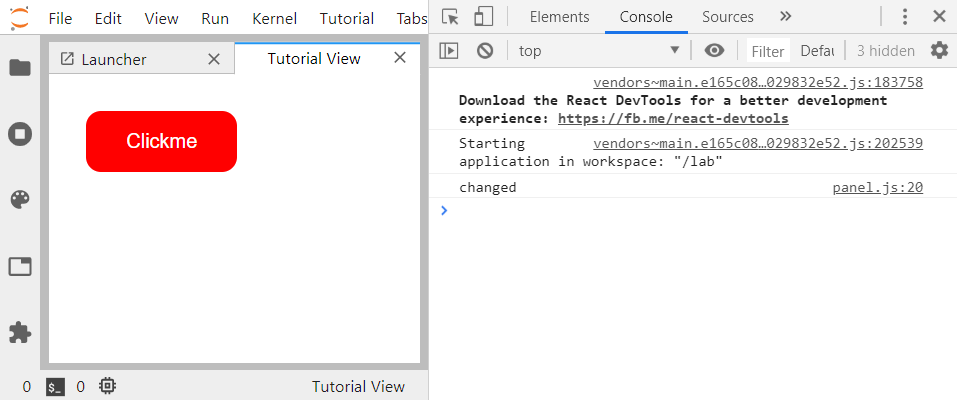
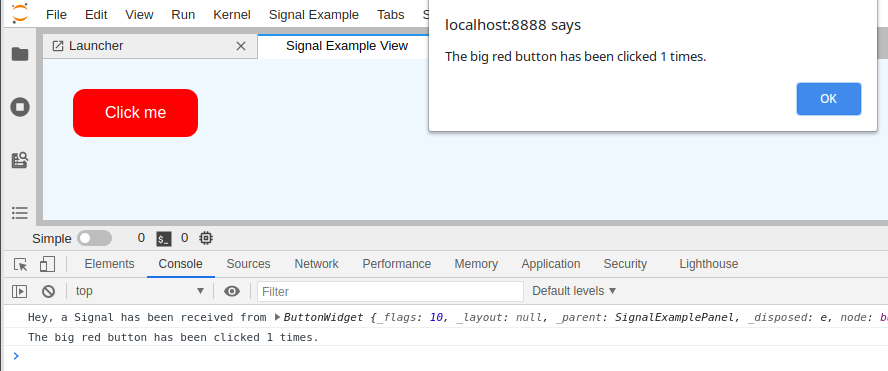
Modify signals to render an HTML button.

diff --git a/basics/signals/src/panel.ts b/basics/signals/src/panel.ts
@@ -3,24 +3,28 @@ import {
   nullTranslator,
   TranslationBundle
 } from '@jupyterlab/translation';
-import { StackedPanel } from '@lumino/widgets';
+
+import { Panel } from '@lumino/widgets';
 
 import { ButtonWidget, ICount } from './button';
-/**
- * The class name added to console panels.
- */
-const PANEL_CLASS = 'jp-tutorial-view';
+
+const PANEL_CLASS = 'jp-SignalExamplePanel';
 
 /**
- * A panel which contains a console and the ability to add other children.
+ * A panel which contains a ButtonWidget and the ability to add other children.
  */
-export class SignalExamplePanel extends StackedPanel {
+export class SignalExamplePanel extends Panel {
+  static _id = 0;
+
   constructor(translator?: ITranslator) {
     super();
     this._translator = translator || nullTranslator;
     this._trans = this._translator.load('jupyterlab');
     this.addClass(PANEL_CLASS);
-    this.id = 'SignalExamplePanel';
+
+    //  This ensures the id of the DOM node is unique for each Panel instance.
+    this.id = 'SignalExamplePanel_' + SignalExamplePanel._id++;
+
     this.title.label = this._trans.__('Signal Example View');
     this.title.closable = true;
 
@@ -40,7 +44,6 @@ export class SignalExamplePanel extends StackedPanel {
   }
 
   private _widget: ButtonWidget;
-
   private _translator: ITranslator;
   private _trans: TranslationBundle;
 }

diff --git a/basics/signals/src/button.ts b/basics/signals/src/button.ts
@@ -1,0 +1,37 @@
+import { Widget } from '@lumino/widgets';
+import { ISignal, Signal } from '@lumino/signaling';
+
+export interface ICount {
+  clickCount: number;
+}
+
+const BUTTON_WIDGET_CLASS = 'jp-ButtonWidget';
+
+export class ButtonWidget extends Widget {
+  constructor(options = { node: document.createElement('button') }) {
+    super(options);
+
+    this.node.textContent = 'Click me';
+
+    /**
+     * The class name, jp-ButtonWidget, follows the CSS class naming
+     * convention for classes that extend lumino.Widget.
+     */
+    this.addClass(BUTTON_WIDGET_CLASS);
+
+    this.node.addEventListener('click', () => {
+      this._count.clickCount = this._count.clickCount + 1;
+      this._stateChanged.emit(this._count);
+    });
+  }
+
+  private _count: ICount = {
+    clickCount: 0
+  };
+
+  private _stateChanged = new Signal<ButtonWidget, ICount>(this);
+
+  public get stateChanged(): ISignal<ButtonWidget, ICount> {
+    return this._stateChanged;
+  }
+}

diff --git a/basics/signals/style/index.css b/basics/signals/style/index.css
@@ -1,8 +1,8 @@
-.jp-tutorial-view {
+.jp-SignalExamplePanel {
   background-color: AliceBlue;
 }
 
-.jp-tutorial-button {
+.jp-ButtonWidget {
   background-color: red;
   border-radius: 12px;
   border: none;

diff --git a/basics/signals/README.md b/basics/signals/README.md
@@ -1,19 +1,18 @@
 # Signals
 
-> Use Signals to allow Widgets communicate with each others.
+> Use Signals to allow Widgets to communicate with each others.
 
 - [Lumino Signaling 101](#lumino-signaling-101)
-- [A simple React Button](#a-simple-react-button)
+- [A simple HTML Button](#a-simple-html-button)
 - [Subscribing to a Signal](#subscribing-to-a-signal)
 
 ![Button with Signal](preview.png)
 
 ## Lumino Signaling 101
 
-Communication between different components of JupyterLab is a key ingredient in building an
-extension.
+Communication between different components of JupyterLab is a key ingredient in building an extension.
 
-In this extension, a simple button will be added to print something to the console.
+In this extension, a simple HTML button will be added to print something to the console.
 
 JupyterLab's Lumino engine uses the `ISignal` interface and the
 `Signal` class that implements this interface for communication
@@ -21,30 +20,30 @@ JupyterLab's Lumino engine uses the `ISignal` interface and the
 
 The basic concept is as follows:
 
-First, a widget (`button.tsx`), in this case the one that contains
+First, a widget (`ButtonWidget` in `button.ts`), in this case the one that contains
 some visual elements such as a button, defines a `_stateChanged` signal:
 
 ```ts
-// src/button.tsx#L36-L36
+// src/button.ts#L32-L32
 
-private _stateChanged = new Signal<this, ICount>(this);
+private _stateChanged = new Signal<ButtonWidget, ICount>(this);
 ```
 
 That private signal is exposed to other widgets via a public accessor method.
 
 ```ts
-// src/button.tsx#L15-L17
+// src/button.ts#L34-L36
 
-public get stateChanged(): ISignal<this, ICount> {
+public get stateChanged(): ISignal<ButtonWidget, ICount> {
   return this._stateChanged;
 }
 ```
 
-Another widget, in this case the panel (`panel.ts`) that boxes several different widgets,
-subscribes to the `stateChanged` signal and links some function to it:
+Another widget, in this case the panel (`SignalExamplePanel` in `panel.ts`) that can box several different widgets,
+subscribes to the `stateChanged` signal and links a function to it:
 
 ```ts
-// src/panel.ts#L29-L29
+// src/panel.ts#L33-L33
 
 this._widget.stateChanged.connect(this._logMessage, this);
 ```
@@ -52,55 +51,36 @@ this._widget.stateChanged.connect(this._logMessage, this);
 The `_logMessage` is executed when the signal is triggered from the first widget with:
 
 ```ts
-// src/button.tsx#L28-L28
+// src/button.ts#L24-L24
 
 this._stateChanged.emit(this._count);
 ```
 
 Let's look at the implementations details.
 
-## A simple React Button
+## A Simple HTML Button
 
-Start with a file called `src/button.tsx`. The `tsx` extension allows to use
-HTML-like syntax with the tag notation `<>` to represent some visual elements
-(note that you have to add a line: `"jsx": "react",` to the
-`tsconfig.json` file). This is a special syntax used by [React](https://reactjs.org/tutorial/tutorial.html).
+Start with a file called `src/button.ts`.
 
-You can also try the [React Widget example](./../../react/react-widget) for more details.
+NB: For a React widget, you can try the [React Widget example](./../../react/react-widget) for more details.
 
-`button.tsx` contains one major class `ButtonWidget` that extends the
-`ReactWidget` class provided by JupyterLab.
+`button.ts` contains one class `ButtonWidget` that extends the
+`Widget` class provided by Lumino.
 
-`ReactWidget` defines a `render()` method that defines some React elements such as a button.
-This is the recommended way to include React component inside the JupyterLab widget based UI.
+The constructor argument of the `ButtonWidget` class is assigned a default `HTMLButtonElement` node (e.g., `<button></button>`). The Widget's `node` property references its respective `HTMLElement`. For example, you can set the content of the button with `this.node.textContent = 'Clickme'`.
 
 ```ts
-// src/button.tsx#L19-L34
+// src/button.ts#L11-L11
 
-protected render(): React.ReactElement<any> {
-  return (
-    <button
-      key="header-thread"
-      className="jp-example-button"
-      onClick={(): void => {
-        this._count = {
-          clickCount: this._count.clickCount + 1
-        };
-        this._stateChanged.emit(this._count);
-      }}
-    >
-      Clickme
-    </button>
-  );
-}
+constructor(options = { node: document.createElement('button') }) {
 ```
 
-`ButtonWidget` also contain a private attribute `_count` of type `ICount`.
+`ButtonWidget` also contains a private attribute `_count` of type `ICount`.
 
 ```ts
-// src/button.tsx#L11-L13
+// src/button.ts#L28-L30
 
-protected _count: ICount = {
+private _count: ICount = {
   clickCount: 0
 };
 ```
@@ -109,9 +89,9 @@ protected _count: ICount = {
 `Signal`.
 
 ```ts
-// src/button.tsx#L36-L36
+// src/button.ts#L32-L32
 
-private _stateChanged = new Signal<this, ICount>(this);
+private _stateChanged = new Signal<ButtonWidget, ICount>(this);
 ```
 
 A signal object can be triggered and then emits an actual signal.
@@ -119,19 +99,17 @@ A signal object can be triggered and then emits an actual signal.
 Other Widgets can subscribe to such a signal and react when a message is
 emitted.
 
-The button `onClick` event will increment the `_count`
+The button `click` event will increment the `_count`
 private attribute and will trigger the `_stateChanged` signal passing
 the `_count` variable.
 
 ```ts
-// src/button.tsx#L24-L29
+// src/button.ts#L22-L25
 
-onClick={(): void => {
-  this._count = {
-    clickCount: this._count.clickCount + 1
-  };
+this.node.addEventListener('click', () => {
+  this._count.clickCount = this._count.clickCount + 1;
   this._stateChanged.emit(this._count);
-}}
+});
 ```
 
 ## Subscribing to a Signal
@@ -141,14 +119,17 @@ The `panel.ts` class defines an extension panel that displays the
 This is done in the constructor.
 
 ```ts
-// src/panel.ts#L18-L30
+// src/panel.ts#L19-L34
 
 constructor(translator?: ITranslator) {
   super();
   this._translator = translator || nullTranslator;
   this._trans = this._translator.load('jupyterlab');
   this.addClass(PANEL_CLASS);
-  this.id = 'SignalExamplePanel';
+
+  //  This ensures the id of the DOM node is unique for each Panel instance.
+  this.id = 'SignalExamplePanel_' + SignalExamplePanel._id++;
+
   this.title.label = this._trans.__('Signal Example View');
   this.title.closable = true;
 
@@ -162,7 +143,7 @@ Subscription to a signal is done using the `connect` method of the
 `stateChanged` attribute.
 
 ```ts
-// src/panel.ts#L29-L29
+// src/panel.ts#L33-L33
 
 this._widget.stateChanged.connect(this._logMessage, this);
 ```
@@ -171,7 +152,8 @@ It registers the `_logMessage` function which is triggered when the signal is em
 
 **Note**
 
-> From the official [JupyterLab Documentation](https://jupyterlab.readthedocs.io/en/stable/developer/patterns.html#signals):
+From the official [JupyterLab Documentation](https://jupyterlab.readthedocs.io/en/stable/developer/patterns.html#signals):
+
 > Wherever possible as signal connection should be made with the pattern `.connect(this._onFoo, this)`.
 > Providing the `this` context enables the connection to be properly cleared by `clearSignalData(this)`.
 > Using a private method avoids allocating a closure for each connection.
@@ -180,16 +162,16 @@ The `_logMessage` function receives as parameters the emitter (of type `ButtonWi
 and the count (of type `ICount`) sent by the signal emitter.
 
 ```ts
-// src/panel.ts#L32-L32
+// src/panel.ts#L36-L36
 
 private _logMessage(emitter: ButtonWidget, count: ICount): void {
 ```
 
-In our case, that function writes `Button has been clicked ... times.` text
+In our case, that function writes `The big red button has been clicked ... times.` text
 to the browser console and in an alert when the big red button is clicked.
 
 ```ts
-// src/panel.ts#L32-L39
+// src/panel.ts#L36-L44
 
 private _logMessage(emitter: ButtonWidget, count: ICount): void {
   console.log('Hey, a Signal has been received from', emitter);
@@ -199,6 +181,7 @@ private _logMessage(emitter: ButtonWidget, count: ICount): void {
   window.alert(
     `The big red button has been clicked ${count.clickCount} times.`
   );
+}
 ```
 
 There it is. Signaling is conceptually important for building extensions.
